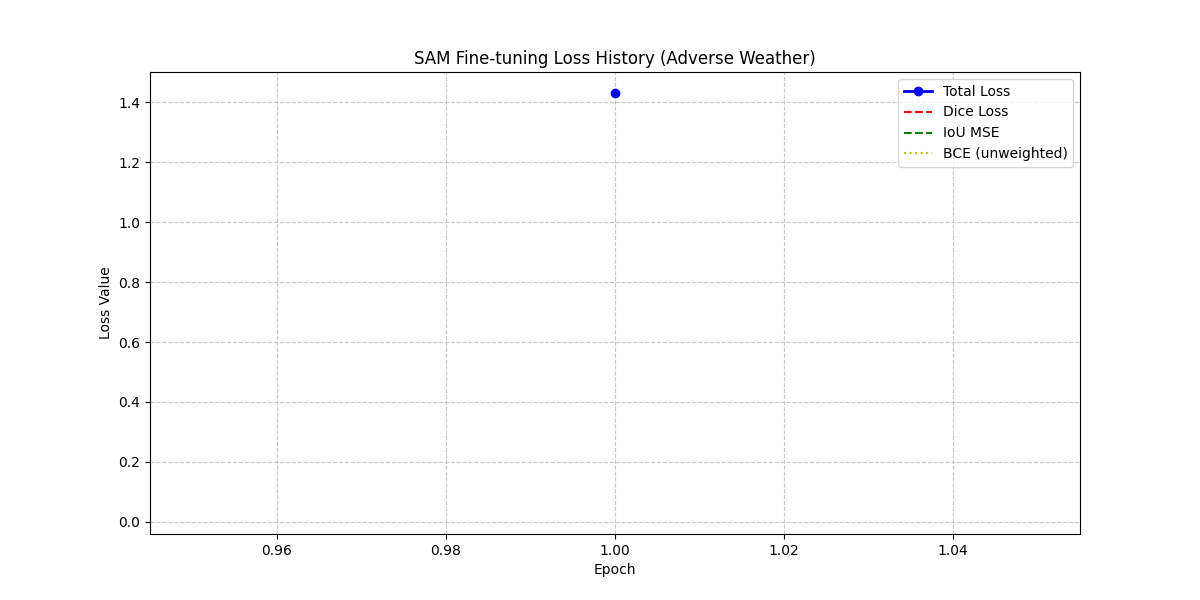
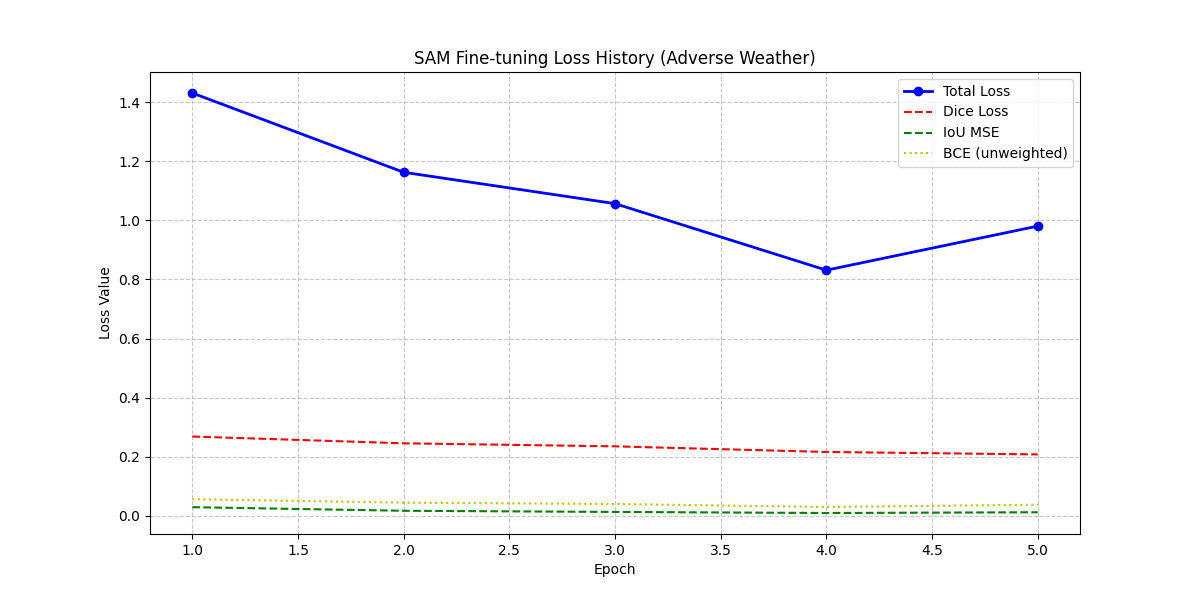
更新一點點東西

diff --git a/segment-anything/vision_evaluate.py b/segment-anything/vision_evaluate.py
@@ -15,14 +15,14 @@ CONFIG = {
     "NUM_SAMPLES": 5,  # 想要產生幾張比較圖
     
     # 資料路徑 (請確認路徑正確)
-    "TEST_IMG_DIR": "data/weather_dataset/train/images",
-    "TEST_MASK_DIR": "data/weather_dataset/train/masks",
+    "TEST_IMG_DIR": "data/weather_dataset/val/images",
+    "TEST_MASK_DIR": "data/weather_dataset/val/masks",
     
     # 模型權重路徑
     "ORIGINAL_CHECKPOINT": "checkpoints/sam_vit_h_4b8939.pth", 
     "FINETUNED_CHECKPOINT": "outputs/sam_weather_best.pth",
     
-    "OUTPUT_DIR": "final_visual_comparison",
+    "OUTPUT_DIR": "final_visual_comparison_point",
     
     # AMG 參數
     "AMG_KWARGS": {

diff --git a/segment-anything/main.py b/segment-anything/main.py
@@ -2,6 +2,8 @@ import torch
 from torch.utils.data import DataLoader
 import os
 import pandas as pd
+import matplotlib
+matplotlib.use('Agg') # 強制使用 Agg 後端，不啟動 GUI 視窗
 import matplotlib.pyplot as plt
 
 # 導入你的自定義模組
